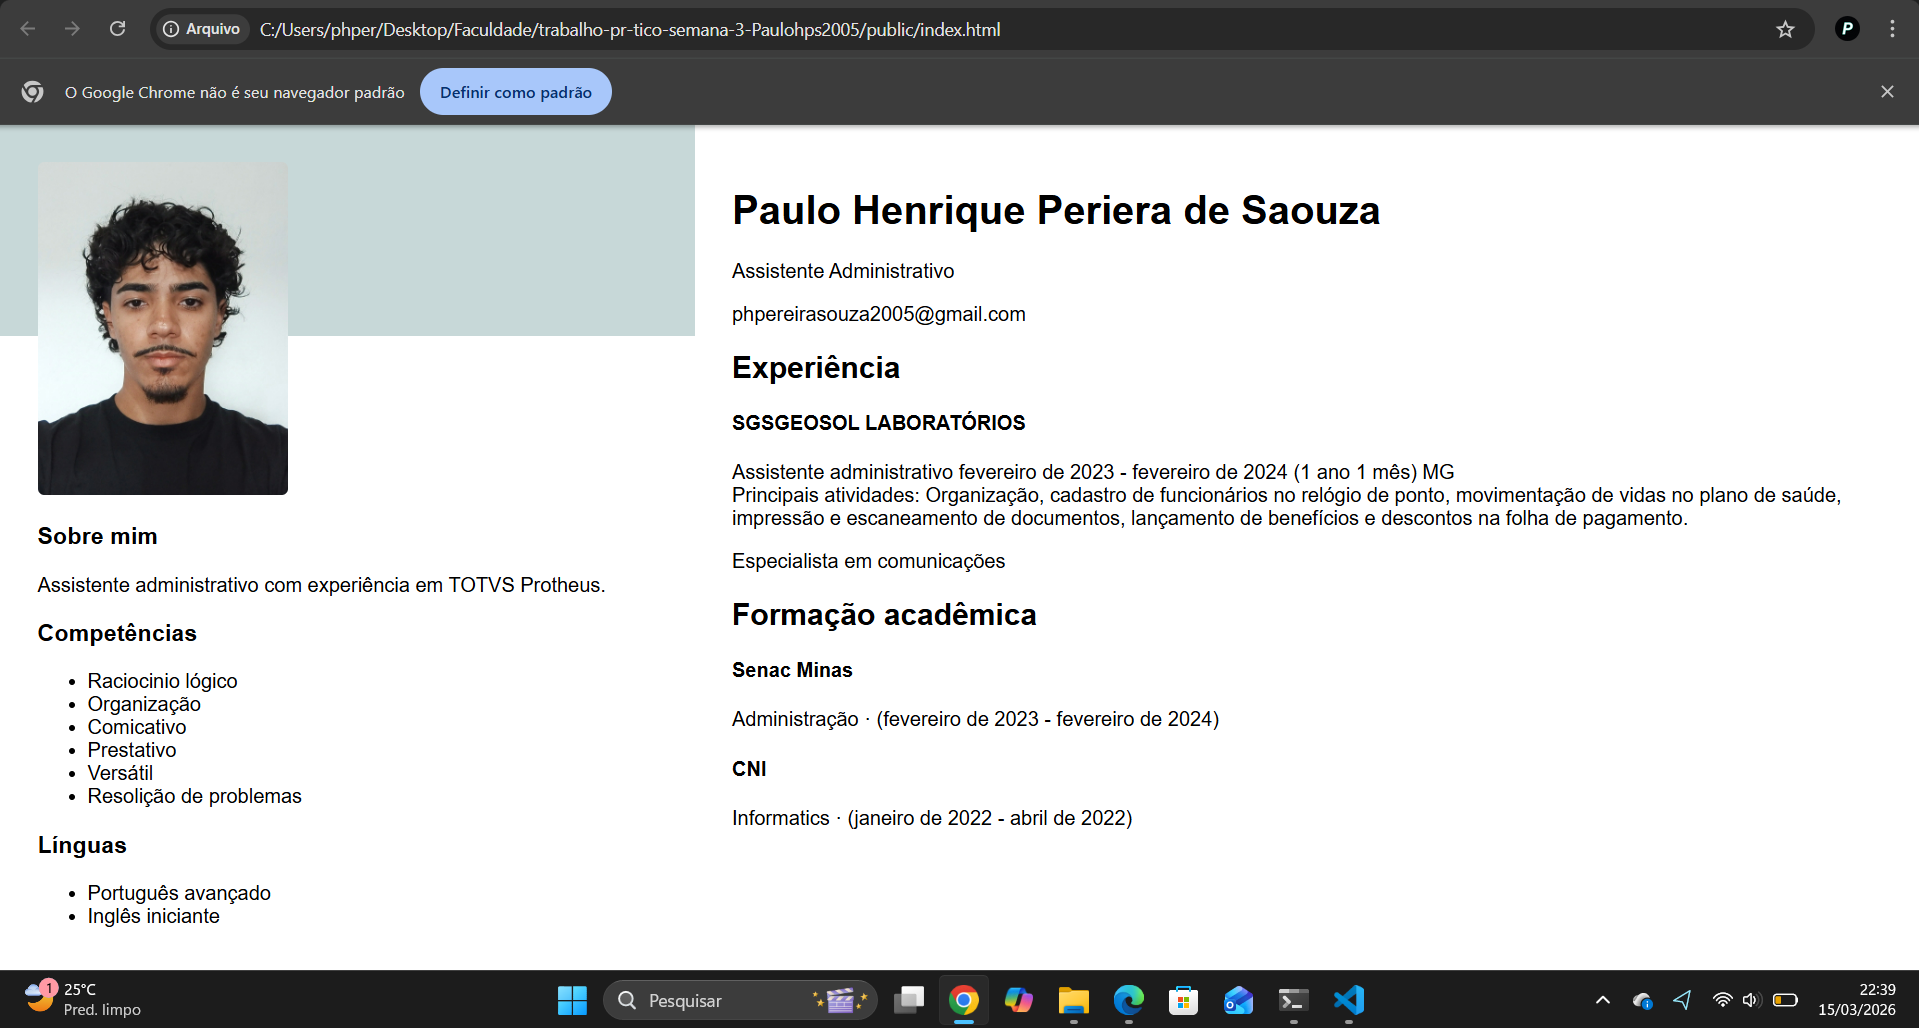
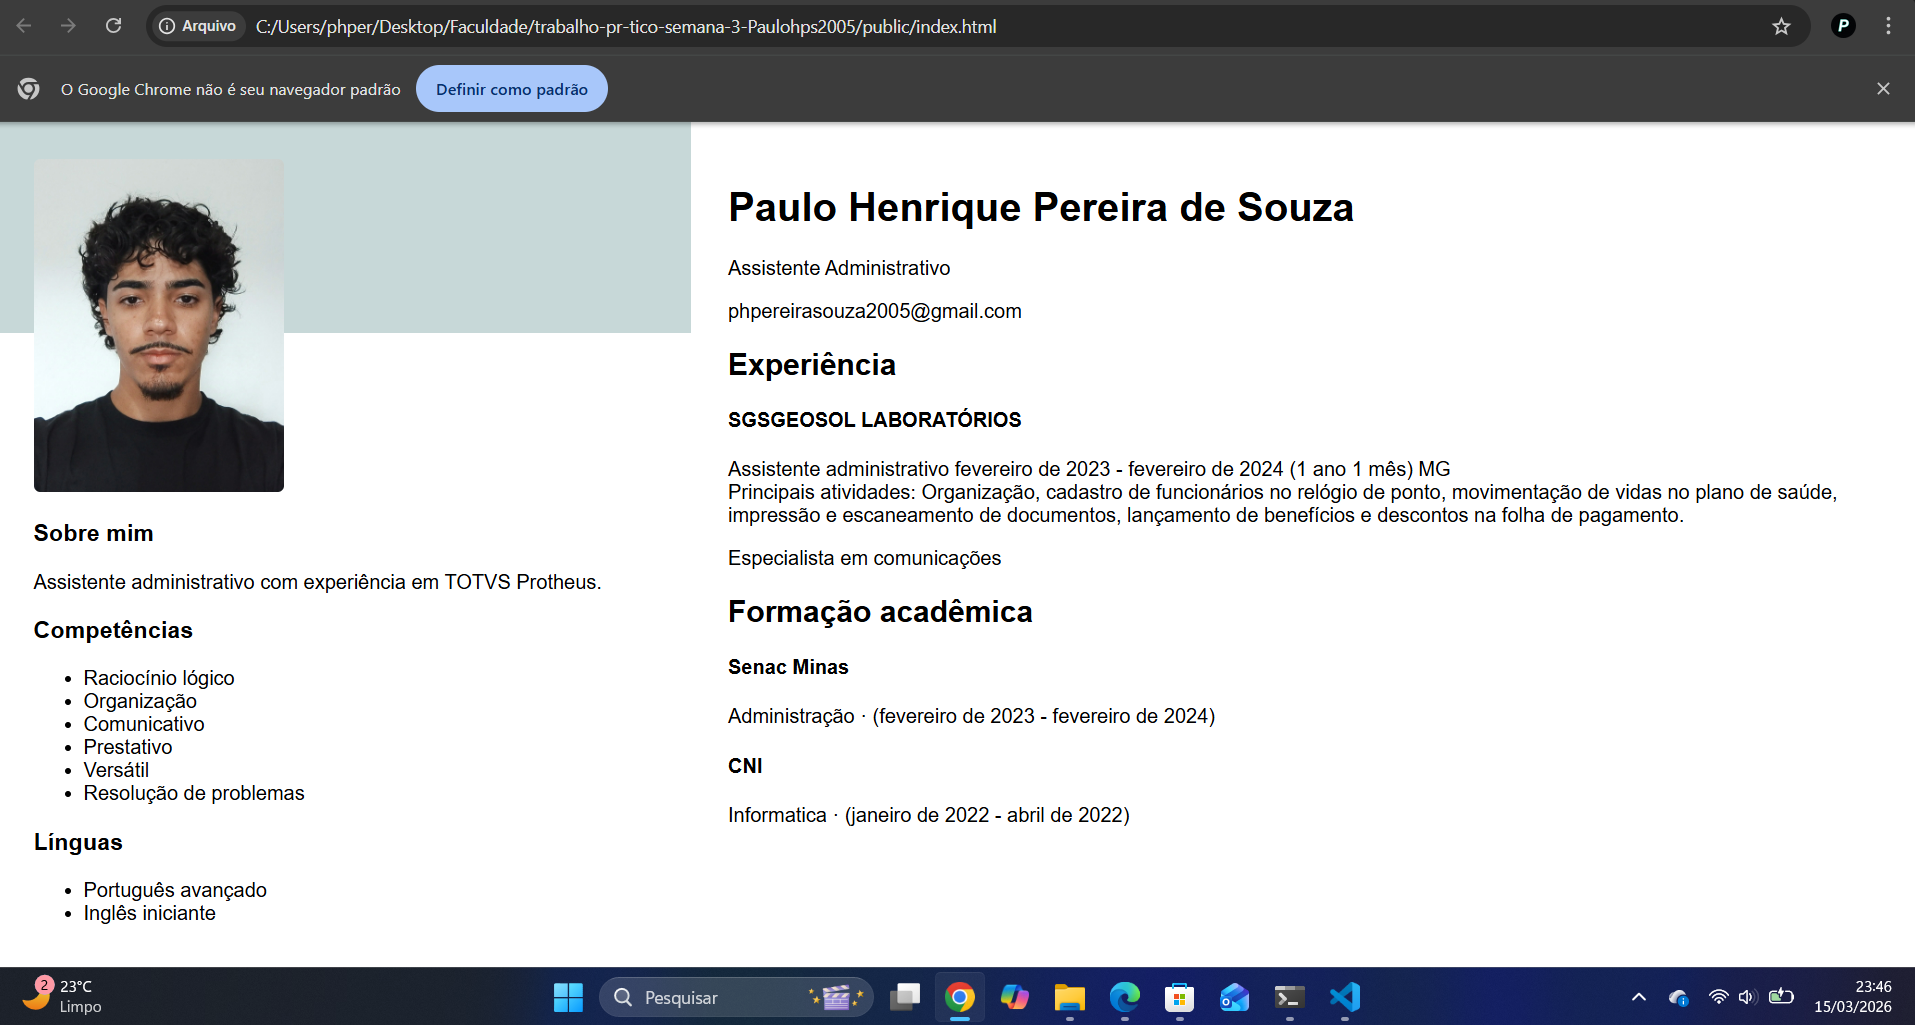
Correção no arquivo index.html - Matrícula

diff --git a/README.md b/README.md
@@ -8,4 +8,3 @@
 
 ![Print do Curriculo Vitae](public/Curriculo.png)
 
-`<Coloque aqui o print da tela do Curriculum Vitae>`
